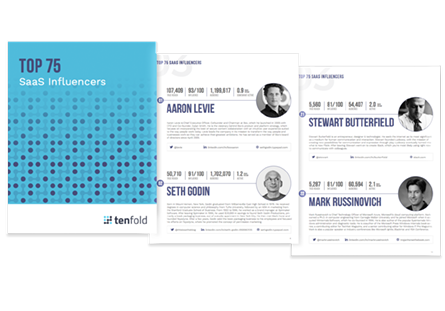
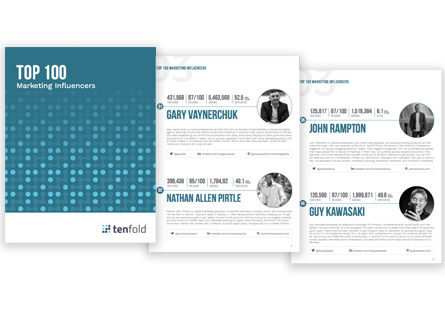
Final Chamhes

diff --git a/2/index.html b/2/index.html
@@ -112,10 +112,10 @@
                 <h2>Top 100 Marketing Influencers</h2>
 
                 <p class="topBigger">
-                   Featuring the brightest and most innovative minds in software today.
+                   Featuring the brightest and most innovative minds in marketing today.
                 </p>
 
-                <p>As Software-as-a-Service becomes more and more commonplace throughout the world, it's important to know who exactly is shaping the evolution of this space. In order to make this list, and evaluate everyone on a level playing field, our content team used a metric called True Reach, devised by clear, to rank all of our influencers. While that was our guiding metric, we also included their overall influencer rating (in terms of how influential they are to their own audience), total audience size, and engagement score to paint a full picture of each influencer. We hope you find this document useful, and learn whatever you can from this group of influencers. </p>
+                <p>As marketing practices continue to evolve and become more widespread, it's important to know who exactly is shaping the evolution of this space. In order to make this list, and evaluate everyone on a level playing field, our content team used a metric called True Reach, devised by Klear, to rank all of our influencers. While that was our guiding metric, we also included their overall influencer rating (in terms of how influential they are to their own audience), total audience size, and engagement score to paint a full picture of each influencer. We hope you find this document useful, and learn whatever you can from this group of influencers.</p>
 
 
 
